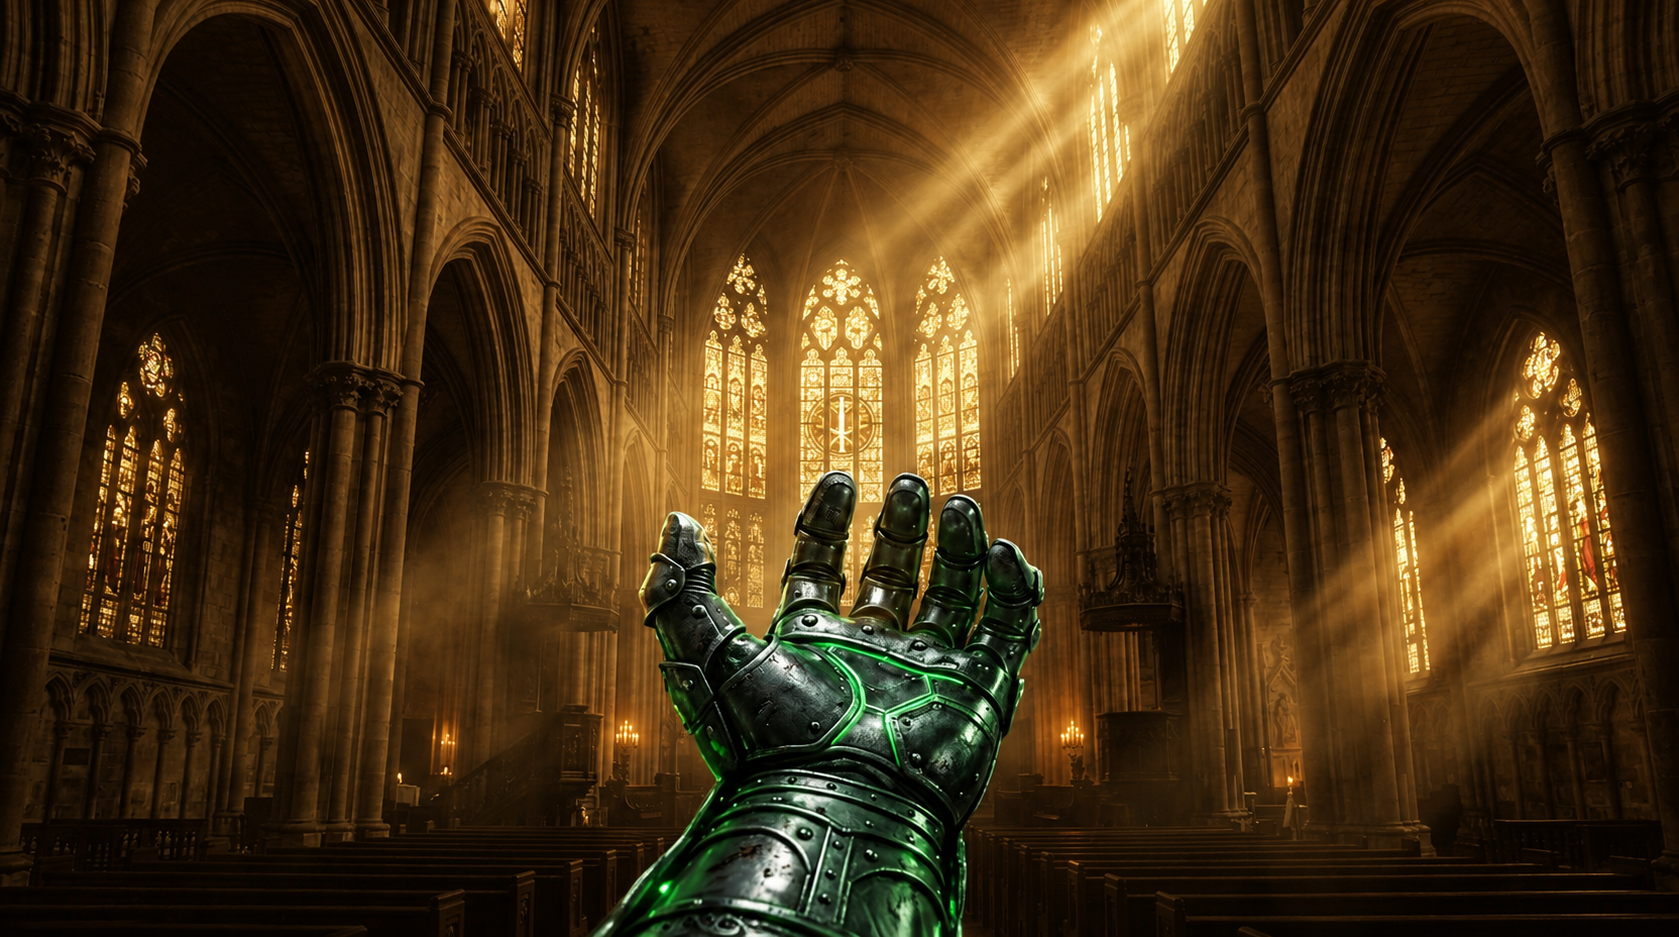
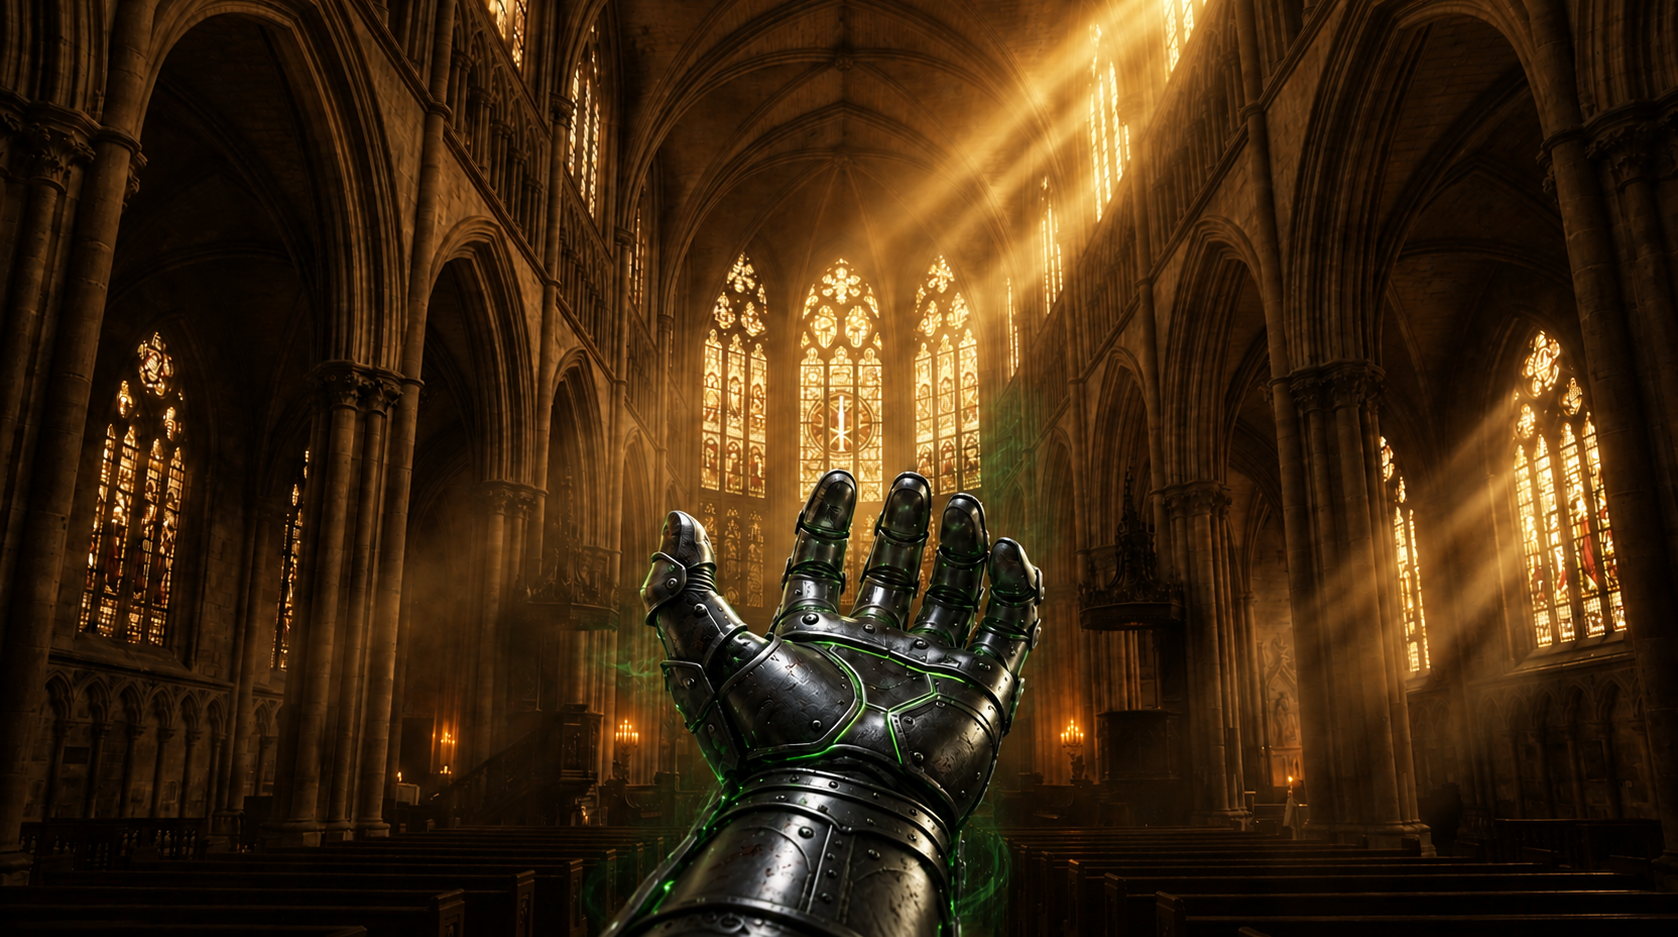
.

diff --git a/src/doomsday-app.js b/src/doomsday-app.js
@@ -12,7 +12,7 @@ export const HAND = {
     FRONT_FROM: 0.62,
 };
 // Wrist countdown anchor (fractions of the gauntlet image). Tune x/y/w/rot to move it.
-export const WRIST = { x: 0.487, y: 0.86, w: 0.21, rot: 0 };
+export const WRIST = { x: 0.487, y: 0.86, w: 0.24, rot: 0 };
 export const ITEMS = [
     {
         code: "SEC-01",
@@ -980,7 +980,7 @@ function createSecButton(item, idx) {
             dhGlowEl.style.top = `${glowY.toFixed(2)}px`;
         }
         if (wristHudEl) {
-            const whW = Math.max(190, Math.min(WRIST.w * imgW, isMobile ? vw * 0.86 : 290));
+            const whW = Math.max(240, Math.min(WRIST.w * imgW, isMobile ? vw * 0.86 : 340));
             wristHudEl.style.setProperty('--wh-w', `${whW.toFixed(1)}px`);
             wristHudEl.style.setProperty('--wh-x', `${(imgLeft + WRIST.x * imgW).toFixed(1)}px`);
             wristHudEl.style.setProperty('--wh-y', `${Math.min(imgTop + WRIST.y * imgH, vh - 140).toFixed(1)}px`);
@@ -1877,71 +1877,37 @@ function createSecButton(item, idx) {
         timerInterval = setInterval(updateCountdown, 1000);
     }
     function initWristCountdown() {
-        if (!wristHudEl)
-            return;
-        const hud = wristHudEl;
-        const SPEC = {
-            days: { n: 30, r: v => Math.min(v, 90) / 90 },
-            hours: { n: 12, r: v => v / 24 },
-            minutes: { n: 36, r: v => v / 60 },
-            seconds: { n: 36, r: v => v / 60 },
-        };
-        const NS = 'http://www.w3.org/2000/svg';
-        const pad = (n) => String(n).padStart(2, '0');
-        const dials = {};
-        Object.keys(SPEC).forEach(u => {
-            const root = wristHudEl.querySelector(`.wh-dial[data-unit="${u}"]`);
-            if (!root)
-                return;
-            const svg = root.querySelector('svg');
-            const num = root.querySelector('b');
-            const dots = [];
-            for (let i = 0; i < SPEC[u].n; i++) {
-                const a = (i / SPEC[u].n) * 2 * Math.PI;
-                const c = document.createElementNS(NS, 'circle');
-                c.setAttribute('cx', (60 + 48 * Math.cos(a)).toFixed(2));
-                c.setAttribute('cy', (60 + 48 * Math.sin(a)).toFixed(2));
-                c.setAttribute('r', '3.4');
-                svg.appendChild(c);
-                dots.push(c);
-            }
-            dials[u] = { num, dots, active: -1 };
-        });
-        const foot = wristHudEl.querySelector('.wh-foot');
-        function setDial(u, v) {
-            const d = dials[u];
-            if (!d)
-                return;
-            d.num.textContent = pad(v);
-            const act = Math.round(SPEC[u].n * SPEC[u].r(v));
-            if (act !== d.active) {
-                d.dots.forEach((c, i) => {
-                    const on = i < act;
-                    c.classList.toggle('on', on);
-                    c.setAttribute('r', on ? '4.4' : '3.4');
-                });
-                d.active = act;
-            }
-        }
-        function tick() {
-            if (document.hidden)
-                return;
-            const diff = Math.max(0, Math.floor((RELEASE.getTime() - Date.now()) / 1000));
-            const s = diff % 60, tm = Math.floor(diff / 60), m = tm % 60;
-            const th = Math.floor(tm / 60), h = th % 24, d = Math.floor(th / 24);
-            setDial('days', d);
-            setDial('hours', h);
-            setDial('minutes', m);
-            setDial('seconds', s);
-            if (diff === 0 && foot) {
-                hud.classList.add('done');
-                foot.textContent = 'DOOMSDAY IS HERE // NOW IN THEATERS';
-            }
-        }
-        tick();
-        setInterval(tick, 1000);
-        document.addEventListener('visibilitychange', tick);
+    if (!wristHudEl) return;
+    const w = {
+        m: document.getElementById('wMonths'),
+        d: document.getElementById('wDays'),
+        h: document.getElementById('wHours'),
+        n: document.getElementById('wMinutes'),
+        s: document.getElementById('wSeconds'),
+    };
+    const pad = (n) => String(n).padStart(2, '0');
+    function tick() {
+        if (document.hidden) return;
+        const diff = Math.max(0, Math.floor((RELEASE.getTime() - Date.now()) / 1000));
+        const sec = diff % 60;
+        const totalMin = Math.floor(diff / 60);
+        const min = totalMin % 60;
+        const totalHr = Math.floor(totalMin / 60);
+        const hr = totalHr % 24;
+        const totalDays = Math.floor(totalHr / 24);
+        const days = totalDays % 30;
+        const months = Math.floor(totalDays / 30);
+        if (w.m) w.m.textContent = pad(months);
+        if (w.d) w.d.textContent = pad(days);
+        if (w.h) w.h.textContent = pad(hr);
+        if (w.n) w.n.textContent = pad(min);
+        if (w.s) w.s.textContent = pad(sec);
+        wristHudEl.classList.toggle('done', diff === 0);
     }
+    tick();
+    setInterval(tick, 1000);
+    document.addEventListener('visibilitychange', tick);
+}
     initWristCountdown();
     // Web Audio Synthesizer: Preserved Realistic Timer Tick & Glass Break Sound
     let audioCtx = null;

diff --git a/src/doomsday.css b/src/doomsday.css
@@ -1046,9 +1046,10 @@ body.gridview .gridbtn b:nth-child(4) {
 /* Scroll Cue */
 .cue {
   position: fixed;
-  left: 50%;
+  left: auto;
+  right: calc(var(--pad) + var(--safe-right) + var(--cue-right, clamp(130px, 15vw, 270px)));
   bottom: calc(var(--pad) + var(--safe-bottom) + 4px);
-  transform: translateX(-50%);
+  transform: none;               /* was translateX(-50%) */
   z-index: 54;
   display: flex;
   align-items: center;
@@ -3105,27 +3106,75 @@ body.gridview .doom-hand-front {
   pointer-events: none !important;
   transition: opacity 0.2s var(--ease);
 }
-/* Wrist Countdown HUD */
-.wrist-hud{position:absolute;left:0;top:0;z-index:5;pointer-events:none;width:var(--wh-w,300px);box-sizing:border-box;padding:8px 10px 7px;
-  background:linear-gradient(180deg,rgba(2,10,6,.55),rgba(2,10,6,.8));border:1px solid rgba(0,255,135,.35);border-radius:6px;
-  box-shadow:0 0 22px rgba(0,255,135,.22),inset 0 0 14px rgba(0,255,135,.08),0 10px 24px rgba(0,0,0,.7);
-  transform:translate3d(calc(var(--wh-x,0px) + var(--px,0px)),calc(var(--wh-y,0px) + var(--py,0px)),0) translate(-50%,-50%);
-  transition:opacity .2s var(--ease)}
-.wrist-hud::before,.wrist-hud::after{content:"";position:absolute;width:9px;height:9px;border:2px solid #00ff87;pointer-events:none}
-.wrist-hud::before{top:-1px;left:-1px;border-right:0;border-bottom:0}
-.wrist-hud::after{bottom:-1px;right:-1px;border-left:0;border-top:0}
-.wh-title{font:700 8px 'Orbitron',monospace;letter-spacing:.55em;color:#fff;text-align:center;padding-left:.55em;margin-bottom:5px;text-shadow:0 0 8px rgba(255,255,255,.6),0 0 14px rgba(255,0,60,.45)}
-.wh-row{display:grid;grid-template-columns:repeat(4,1fr);gap:6px}
-.wh-cell{display:flex;flex-direction:column;align-items:center;gap:3px}
-.wh-dial{position:relative;width:100%;max-width:62px;aspect-ratio:1}
-.wh-dial svg{position:absolute;inset:0;width:100%;height:100%;transform:rotate(-90deg);overflow:visible;filter:drop-shadow(0 0 3px rgba(255,0,60,.7))}
-.wh-dial circle{fill:#380811;opacity:.55}
-.wh-dial circle.on{fill:#ff003c;opacity:.98}
-.wh-dial b{position:absolute;inset:0;display:grid;place-items:center;font:800 clamp(12px,1.25vw,16px) 'Orbitron',monospace;color:#fff;text-shadow:0 0 10px rgba(255,255,255,.85),0 0 14px rgba(255,0,60,.5)}
-.wh-lab{font:700 7px 'Rajdhani',monospace;letter-spacing:.22em;color:#72f7b8;text-transform:uppercase;text-shadow:0 0 6px rgba(0,255,135,.4)}
-.wh-foot{margin-top:5px;text-align:center;font:600 7px 'Rajdhani',monospace;letter-spacing:.2em;color:rgba(226,249,238,.8)}
-.wrist-hud.done .wh-foot{color:#00ff87}
-body.lit .wrist-hud,body.gridview .wrist-hud{opacity:0!important}
+/* Wrist Countdown (timeline) */
+.wrist-hud {
+  position: relative !important;
+  top: 690px !important;        /* increase to go lower, negative to go higher */
+  transform: none !important;
+  left: 690px !important;        /* increase to go right, negative to go left */
+  z-index: 5;
+  width: var(--wh-w, 300px);
+  pointer-events: none;
+  padding: 10px 6px;
+  background: radial-gradient(ellipse at center, rgba(2, 8, 5, .6) 0%, rgba(2, 8, 5, .35) 55%, transparent 80%);
+  transform:
+    translate3d(calc(var(--wh-x, 0px) + var(--px, 0px)), calc(var(--wh-y, 0px) + var(--py, 0px)), 0)
+    translate(-50%, -50%)
+    rotate(var(--wh-rot, 0deg));
+  transition: opacity .2s var(--ease);
+}
+
+.wh-timer {
+  display: flex;
+  justify-content: center;
+  align-items: flex-start;
+  font-family: "Roboto", "Inter", -apple-system, sans-serif;
+}
+
+.wh-seg {
+  display: flex;
+  flex-direction: column;
+  align-items: center;
+  flex: 1 1 0;
+  min-width: 0;
+}
+
+.wh-seg b {
+  font-weight: 500;
+  font-size: calc(var(--wh-w, 300px) * 0.085);
+  line-height: 1;
+  letter-spacing: .12em;
+  margin-right: -.12em;
+  color: #eef1ec;
+  font-variant-numeric: tabular-nums;
+  text-shadow: 0 0 14px rgba(0, 255, 136, .25), 0 2px 10px rgba(0, 0, 0, .95);
+}
+
+.wh-seg span {
+  margin-top: calc(var(--wh-w, 300px) * 0.025);
+  font-size: calc(var(--wh-w, 300px) * 0.03);
+  font-weight: 500;
+  letter-spacing: .22em;
+  margin-right: -.22em;
+  text-transform: uppercase;
+  color: rgba(235, 240, 232, .55);
+  white-space: nowrap;
+}
+
+.wh-colon {
+  font-style: normal;
+  font-weight: 400;
+  font-size: calc(var(--wh-w, 300px) * 0.085);
+  line-height: 1;
+  color: rgba(255, 255, 255, .8);
+  margin: 0 calc(var(--wh-w, 300px) * 0.006);
+  text-shadow: 0 2px 10px rgba(0, 0, 0, .95);
+}
+
+.wrist-hud.done .wh-seg b { color: var(--emerald); }
+body.lit .wrist-hud,
+body.gridview .wrist-hud { opacity: 0 !important; }
+
 /* ================= HUD corner frames ================= */
 .corner{position:absolute;z-index:4;width:clamp(150px,21vw,300px);aspect-ratio:300/190;pointer-events:none;opacity:0;filter:drop-shadow(0 0 8px rgba(0,255,136,.3));transition:opacity .8s var(--ease) .2s}
 .corner svg{display:block;width:100%;height:100%;overflow:visible}

diff --git a/src/components/Stage.jsx b/src/components/Stage.jsx
@@ -44,6 +44,20 @@ function Stage() {
         <img className="dh-art" src="/doom/doom-hand.jpg" alt="" />
       </div>
     </div>
+
+    <div id="wristHud" className="wrist-hud" aria-label="Countdown to Avengers: Doomsday">
+  <div className="wh-timer">
+    <div className="wh-seg"><b id="wMonths">00</b><span>Months</span></div>
+    <i className="wh-colon">:</i>
+    <div className="wh-seg"><b id="wDays">00</b><span>Days</span></div>
+    <i className="wh-colon">:</i>
+    <div className="wh-seg"><b id="wHours">00</b><span>Hours</span></div>
+    <i className="wh-colon">:</i>
+    <div className="wh-seg"><b id="wMinutes">00</b><span>Minutes</span></div>
+    <i className="wh-colon">:</i>
+    <div className="wh-seg"><b id="wSeconds">00</b><span>Seconds</span></div>
+  </div>
+</div>
   </div>
 
   
